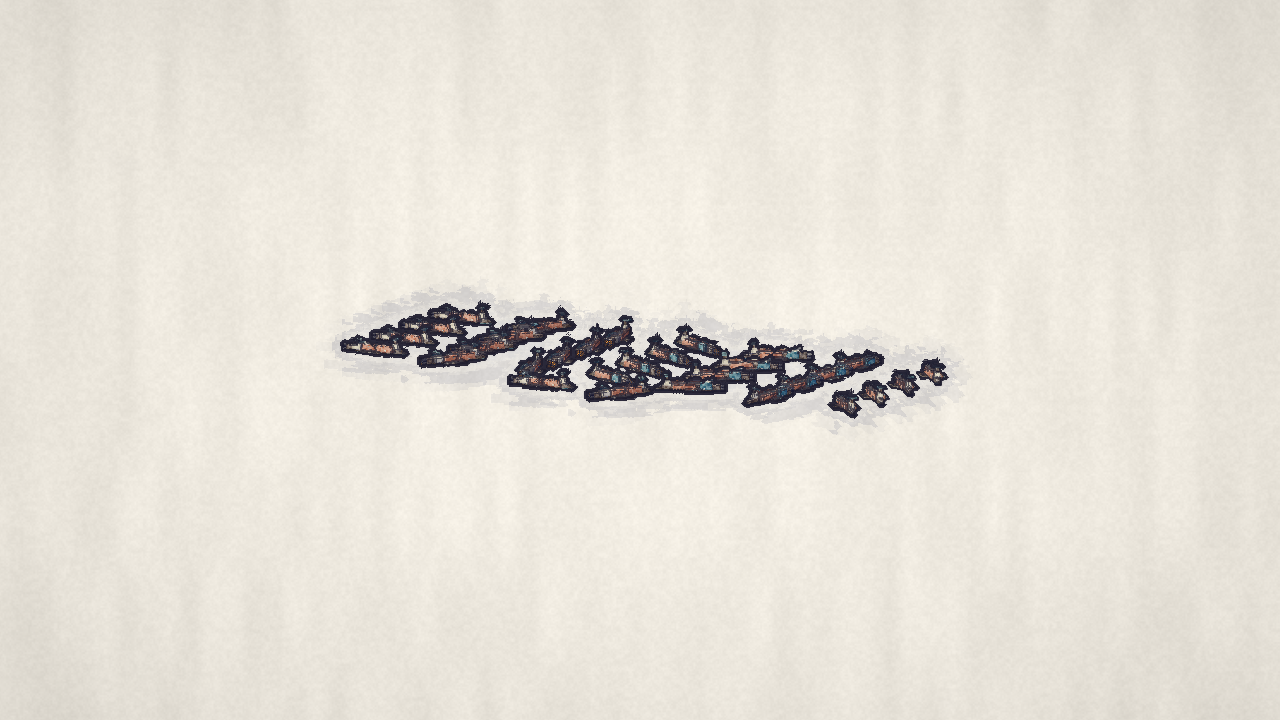
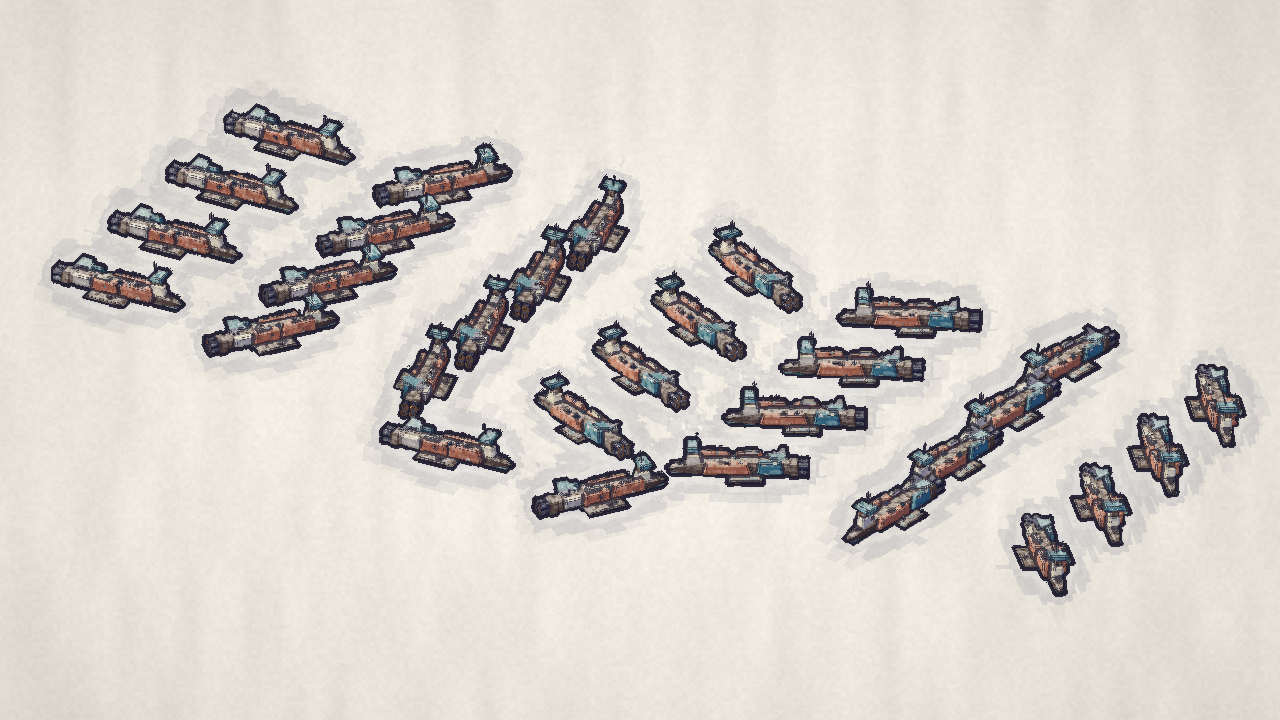
shattered spike: measurements, miss log, orbit and fly-past sequences (steps 5-6)

Changed region(s): [[0.0312, 0.1222, 0.875, 0.7944], [0.7812, 0.4889, 1.0, 0.8556]]

diff --git a/examples/shattered-spike/src/main.js b/examples/shattered-spike/src/main.js
@@ -227,6 +227,7 @@ async function Main()
   device.width = canvas.width;
   device.height = canvas.height;
   spike.backendName = backend.name;
+  spike.adapter = await navigator.gpu.requestAdapter().then(a => a?.info ? `${a.info.vendor} ${a.info.architecture} ${a.info.device} ${a.info.description}`.trim() : "unknown");
 
   const renderContext = Tr2RenderContext_GetMainThreadRenderContext();
 
@@ -263,7 +264,7 @@ async function Main()
     ship.phase = SHIPS === 1 ? 0 : i * 0.9;
     fleet.ships.push(ship);
   }
-  const extent = SHIPS === 1 ? meta.radius * 1.15 : Math.hypot(columns * spacingX, rows * spacingZ) * 0.5 + meta.radius * 0.3;
+  const extent = SHIPS === 1 ? meta.radius * 1.15 : columns * spacingX * 0.5 + meta.radius * 0.2;
 
   // The scene's targets: colour (rgb the wash, a the hull's coverage), normal (rgb view normal,
   // a depth) and a depth buffer, all the canvas's size.
@@ -328,7 +329,7 @@ async function Main()
     callback(() =>
     {
       const aspect = canvas.width / canvas.height;
-      const height = SHIPS === 1 ? extent * 2 / aspect : Math.max(extent * 2, extent * 2 / aspect);
+      const height = extent * 2 / aspect;
       const distance = extent * 4;
       if (CAMERA === "flyby")
       {
@@ -402,6 +403,7 @@ async function Main()
   loading = false;
   // The frame loop: Blue's tick runs Trinity, which runs the device's render jobs.
   const frameTimes = [];
+  const gpuDevice = backend.webgpu.GetDevice();
   let last = performance.now();
   const tick = now =>
   {
@@ -418,19 +420,25 @@ async function Main()
     const cpu = performance.now() - before;
     spike.frames++;
     if (spike.firstFrameMs === null) spike.firstFrameMs = performance.now() - T0;
+    // The frame's whole cost, CPU and GPU: from before the tick until the GPU reports the submitted work done.
+    if (BENCH && !spike.bench && frameTimes.length < BENCH && spike.frames > 20)
+    {
+      const index = frameTimes.length;
+      gpuDevice.queue.onSubmittedWorkDone().then(() => { if (frameTimes[index]) frameTimes[index].done = performance.now() - before; });
+    }
     if (BENCH && spike.frames > 20 && !spike.bench)
     {
       frameTimes.push({ interval: dt * 1000, cpu });
-      if (frameTimes.length >= BENCH)
+      if (frameTimes.length >= BENCH) setTimeout(() =>
       {
-        const sorted = key => frameTimes.map(entry => entry[key]).sort((a, b) => a - b);
+        const sorted = key => frameTimes.map(entry => entry[key]).filter(value => value !== undefined).sort((a, b) => a - b);
         const summary = key =>
         {
           const values = sorted(key);
           return { mean: values.reduce((sum, value) => sum + value, 0) / values.length, median: values[values.length >> 1], p95: values[Math.floor(values.length * 0.95)] };
         };
-        spike.bench = { ships: SHIPS, frames: frameTimes.length, width: canvas.width, height: canvas.height, interval: summary("interval"), cpu: summary("cpu") };
-      }
+        spike.bench ??= { adapter: spike.adapter, ships: SHIPS, frames: frameTimes.length, width: canvas.width, height: canvas.height, interval: summary("interval"), cpu: summary("cpu"), submitToDone: summary("done") };
+      }, 200);
     }
     const diagnostics = renderContext.GetDiagnostics();
     if (diagnostics.length)

diff --git a/examples/shattered-spike/index.html b/examples/shattered-spike/index.html
@@ -3,6 +3,7 @@
 <head>
 <meta charset="utf-8">
 <title>Shattered Reach spike: our hull through CarbonEngineJS</title>
+<link rel="icon" href="data:,">
 <meta name="viewport" content="width=device-width, initial-scale=1">
 <style>
   html, body { margin: 0; height: 100%; background: #f1ebe0; }
